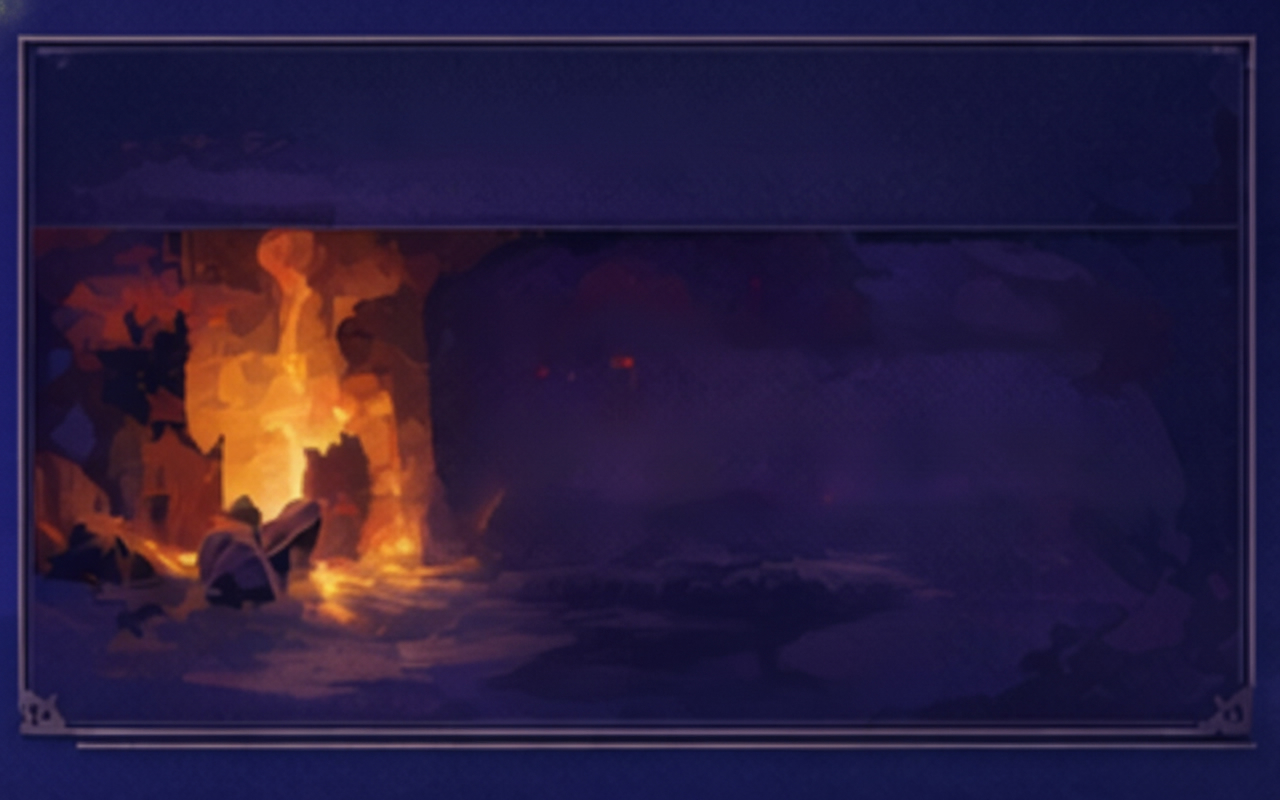
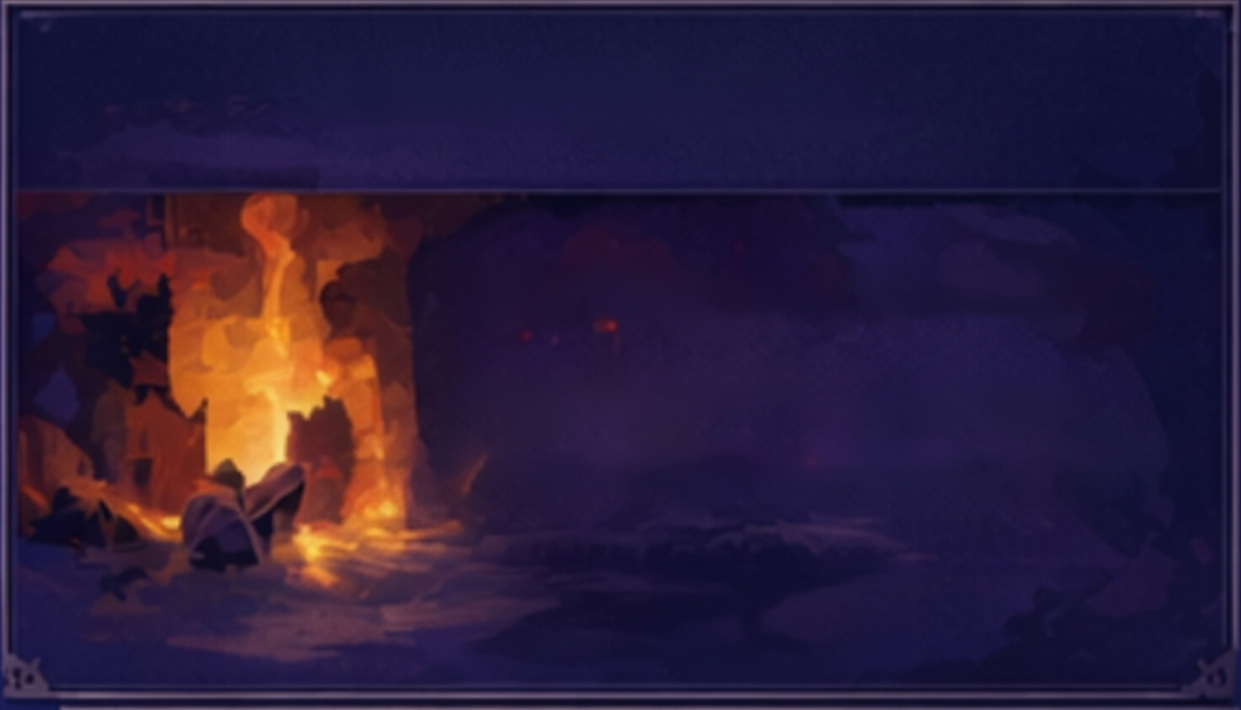
improve the updates section and background

Changed region(s): [[0.0, 0.0, 1.0, 1.0], [0.6124, 0.6817, 0.7043, 0.7746], [0.6737, 0.2789, 0.7961, 0.3099]]

diff --git a/style.css b/style.css
@@ -156,12 +156,21 @@ image-rendering:pixelated;
 
 .features #updates{
   /*background: url('bg_updates.jpg') no-repeat center/contain;*/
-  border-image: url('bg_updates.jpg') 20 20 20 20 fill / 20px 20px 20px 20px;
+  border-image: url('bg_updates.jpg') 4 4 4 4 fill / 4px 4px 4px 4px;
+  
+  padding-top: 10px;
+  padding-bottom: 10px;
 }
 
 .features #updates p {
   text-align: initial !important;
-  padding-left: 100px;
+  padding-left: 130px;
+  font-size: 0.9rem;
+}
+
+.features #updates h3 {
+  line-height: 1.3rem;
+  padding-top: 5px;
 }
 
 .small-btn {
